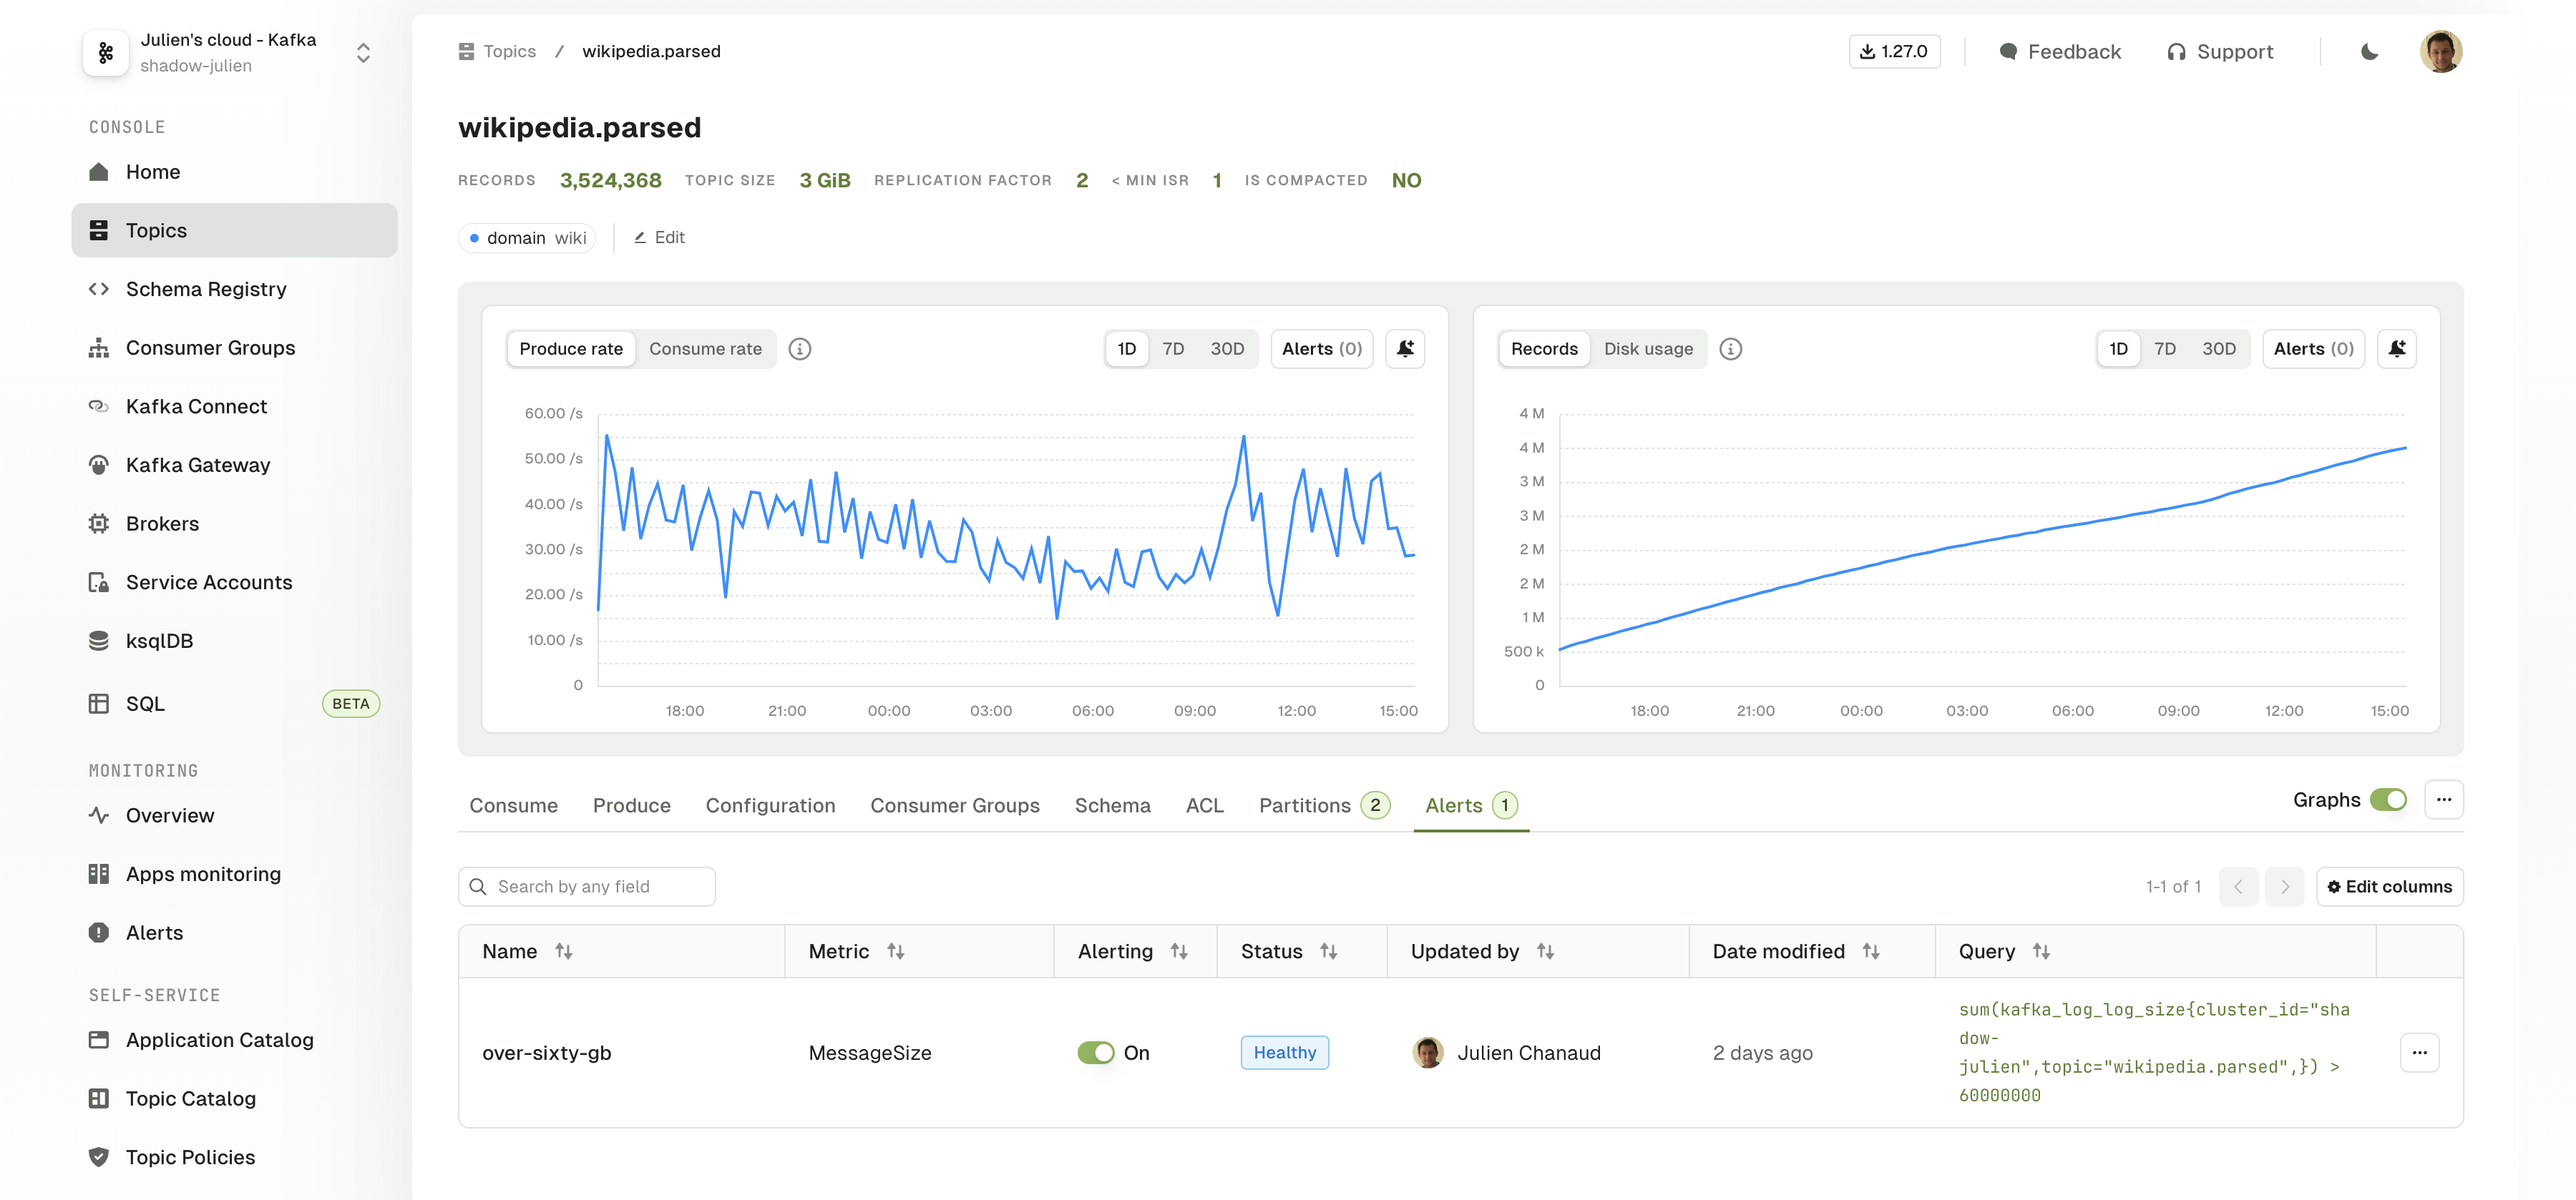
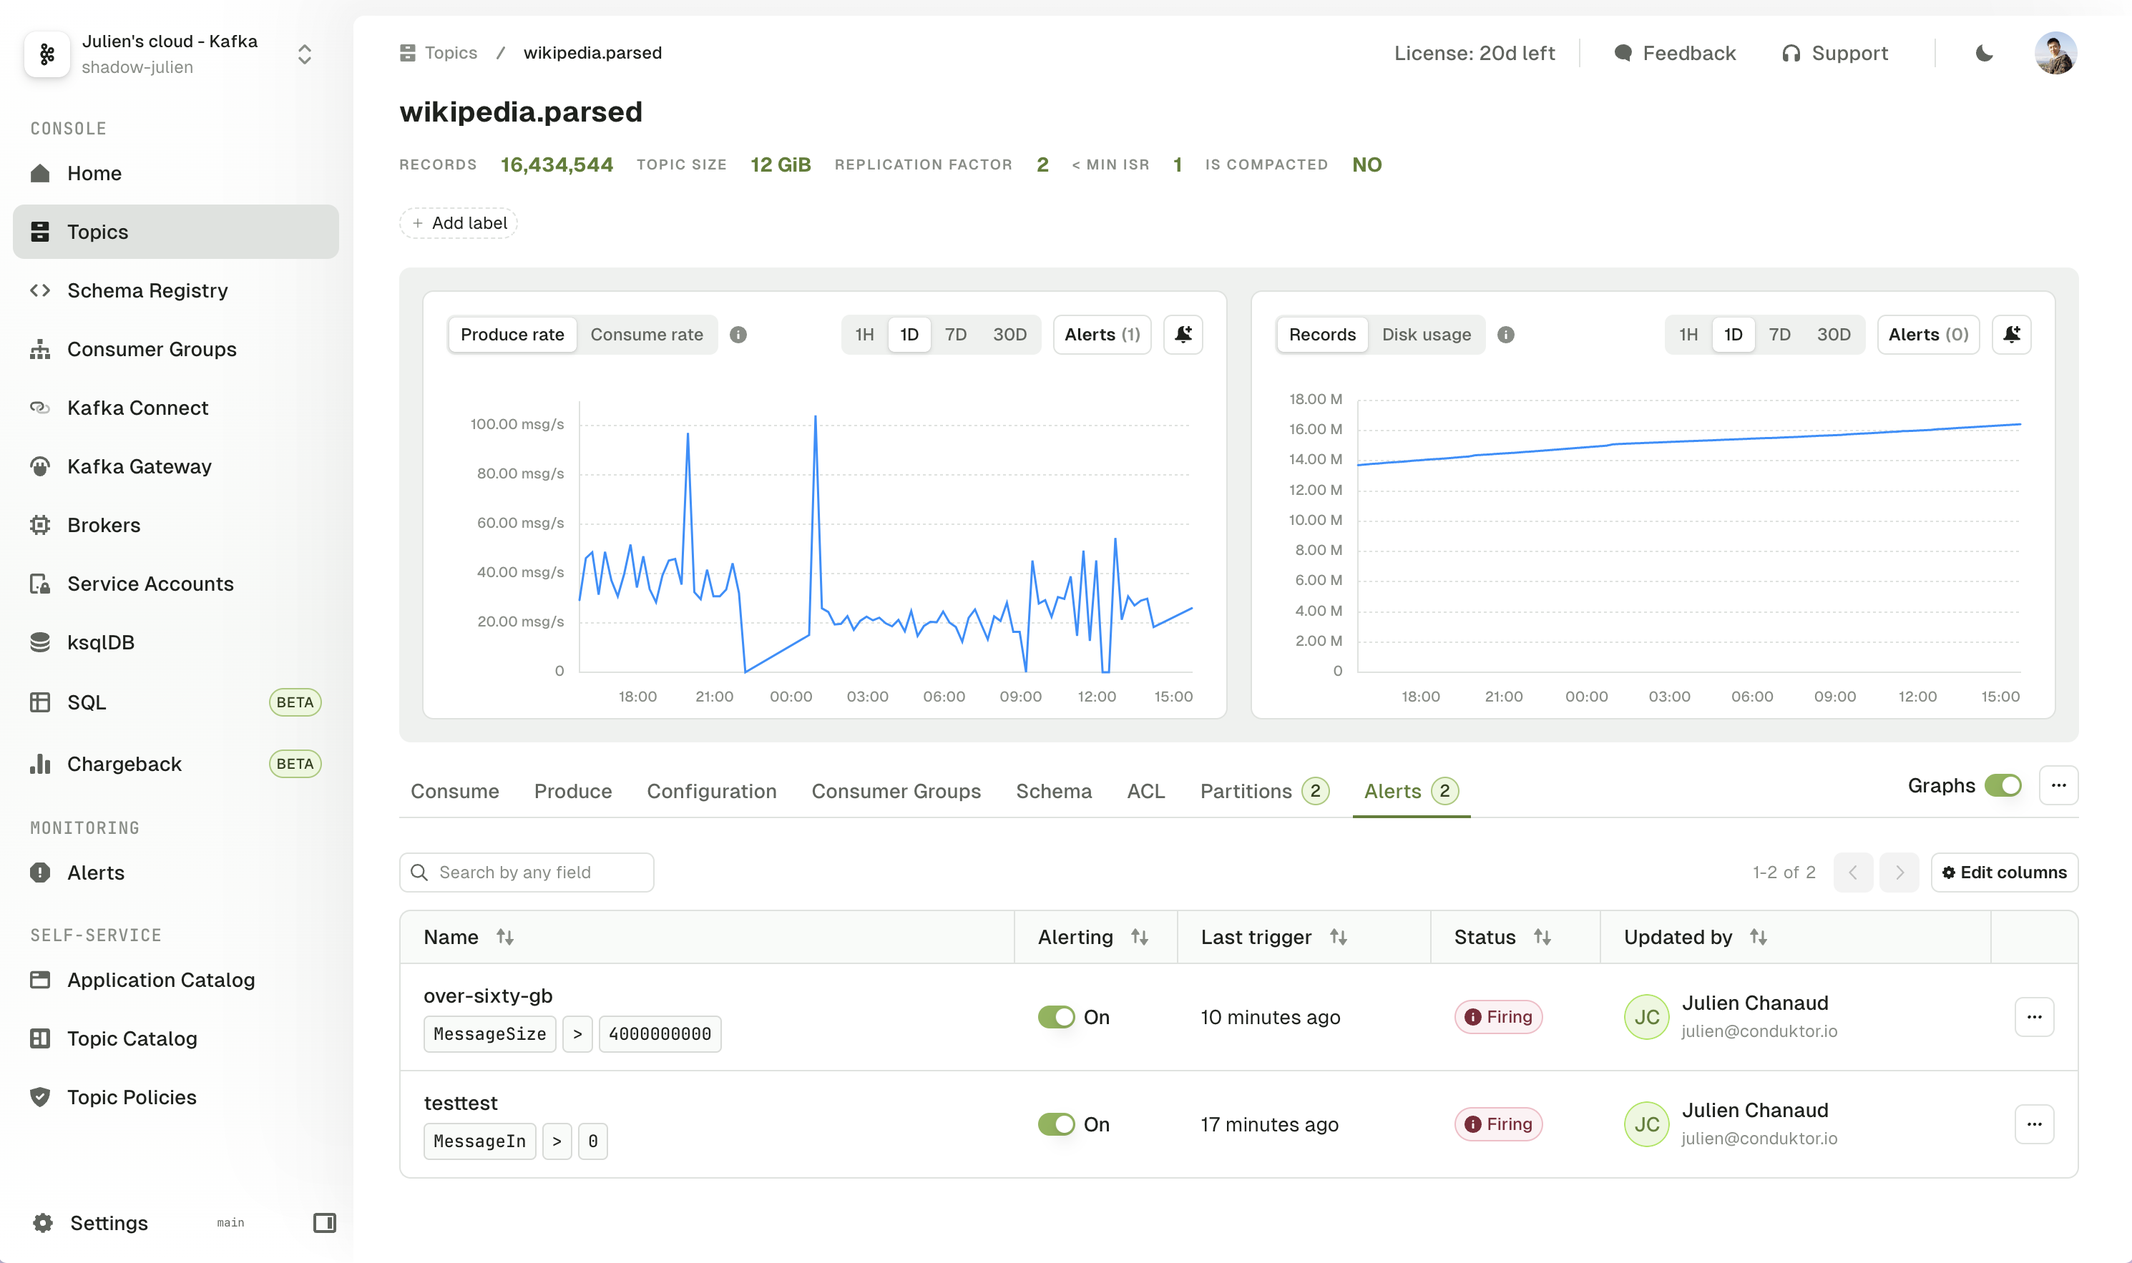
Updated screenshots and changelog for the new alert list

diff --git a/src/pages/changelog/Console-1.30.0.md b/src/pages/changelog/Console-1.30.0.md
@@ -13,15 +13,26 @@ tags: features,fix
 ## Breaking Changes 💣
 ?
 
+
+***
+
+## Quality of Life improvements
+
+### Alert list redesign
+We’ve redesigned our alert lists across the product to provide a more intuitive overview of alert configurations and statuses:
+
+- The Prometheus query column is replaced with a more friendly metric and condition row.
+- Added the "Last Triggered Time" column to make filtering and finding firing alerts easier.
+
+
+![New alert list](/images/changelog/platform/v30/new-alert-list.png)
+
+
 ### RBAC screen redesign
 
 The RBAC screen displaying resource access has been redesigned to provide a clearer distinction between inherited and user-specific permissions.
 
 ![RBAC screen](/images/changelog/platform/v30/RBAC-screen-redesign.png)
-
-***
-
-## Quality of Life improvements
 
 
 ## Fixes 🔨
